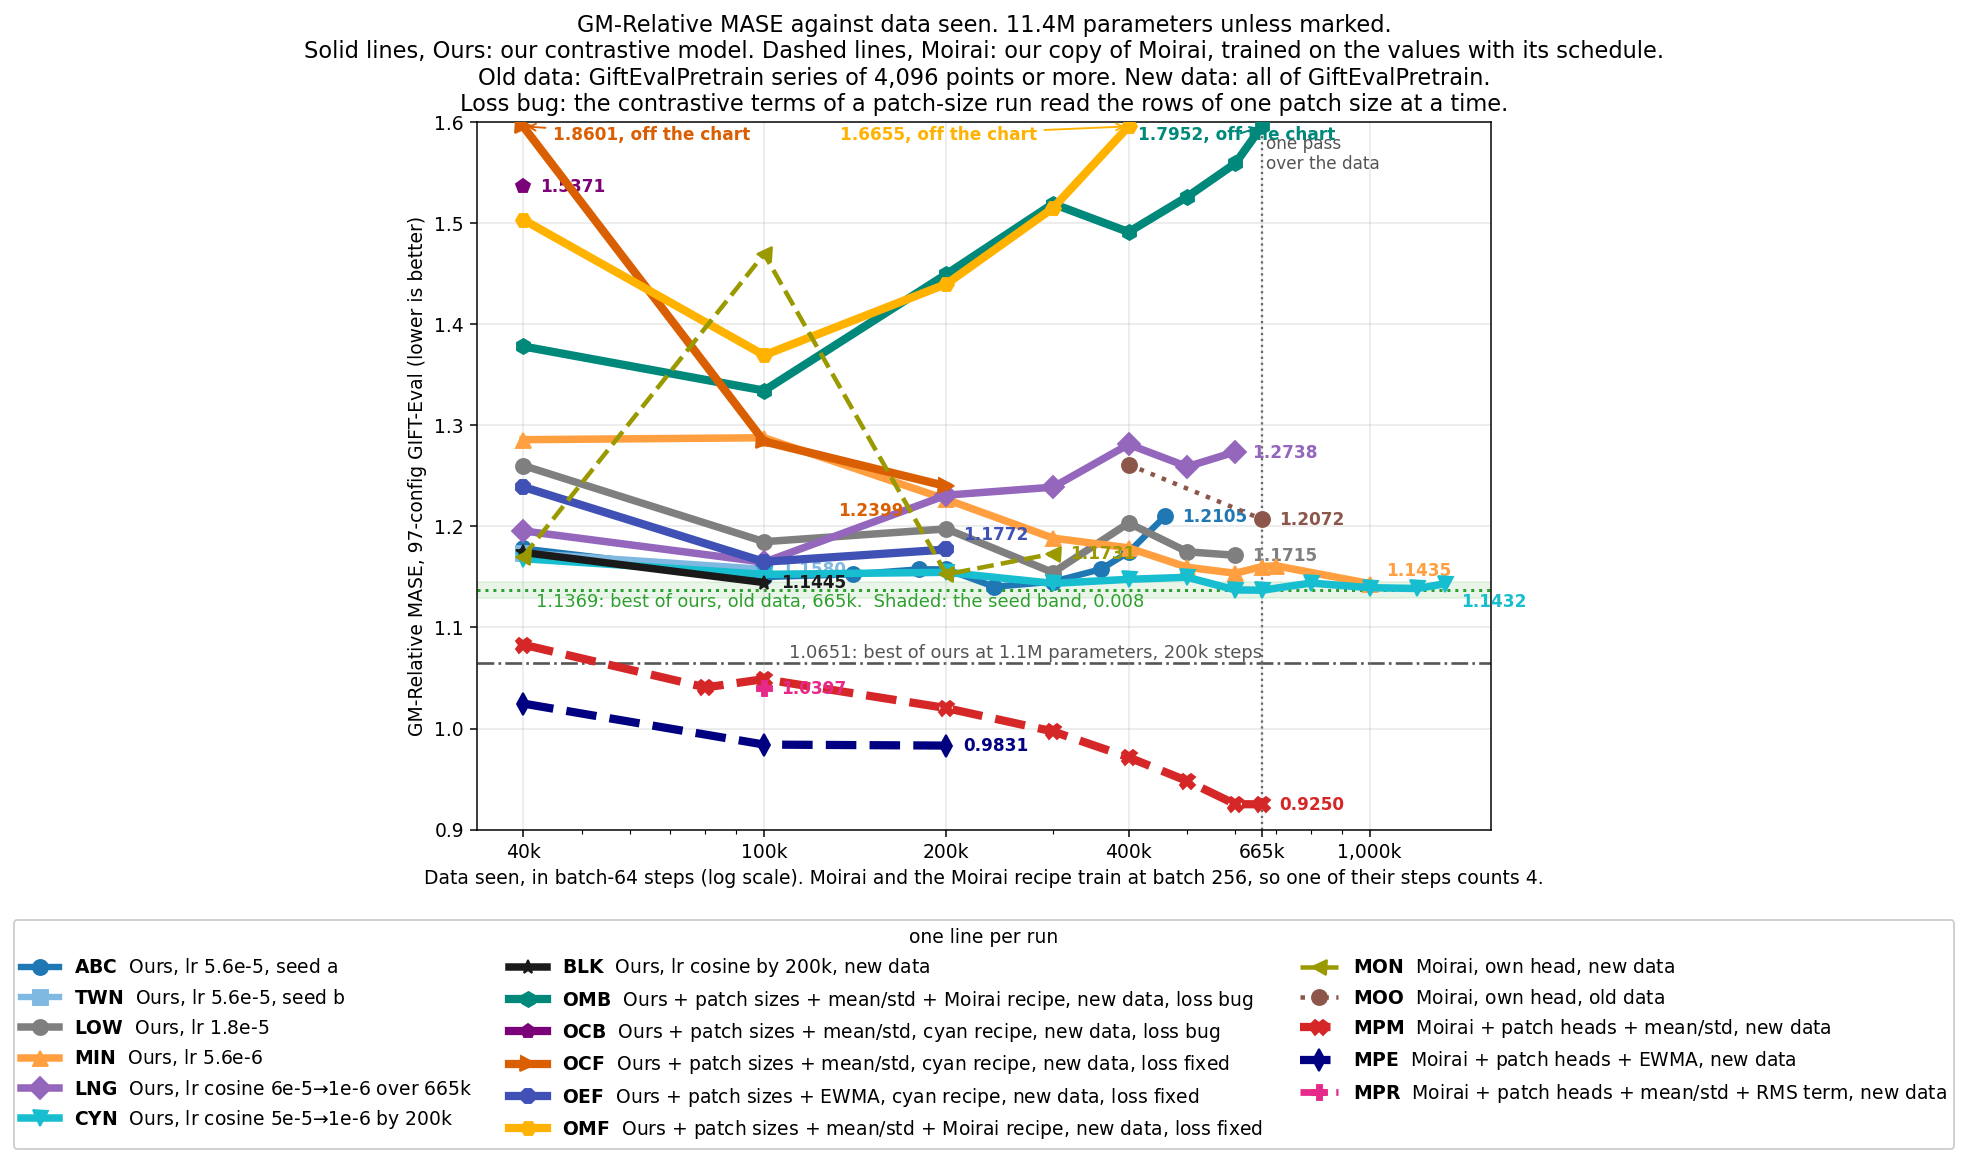
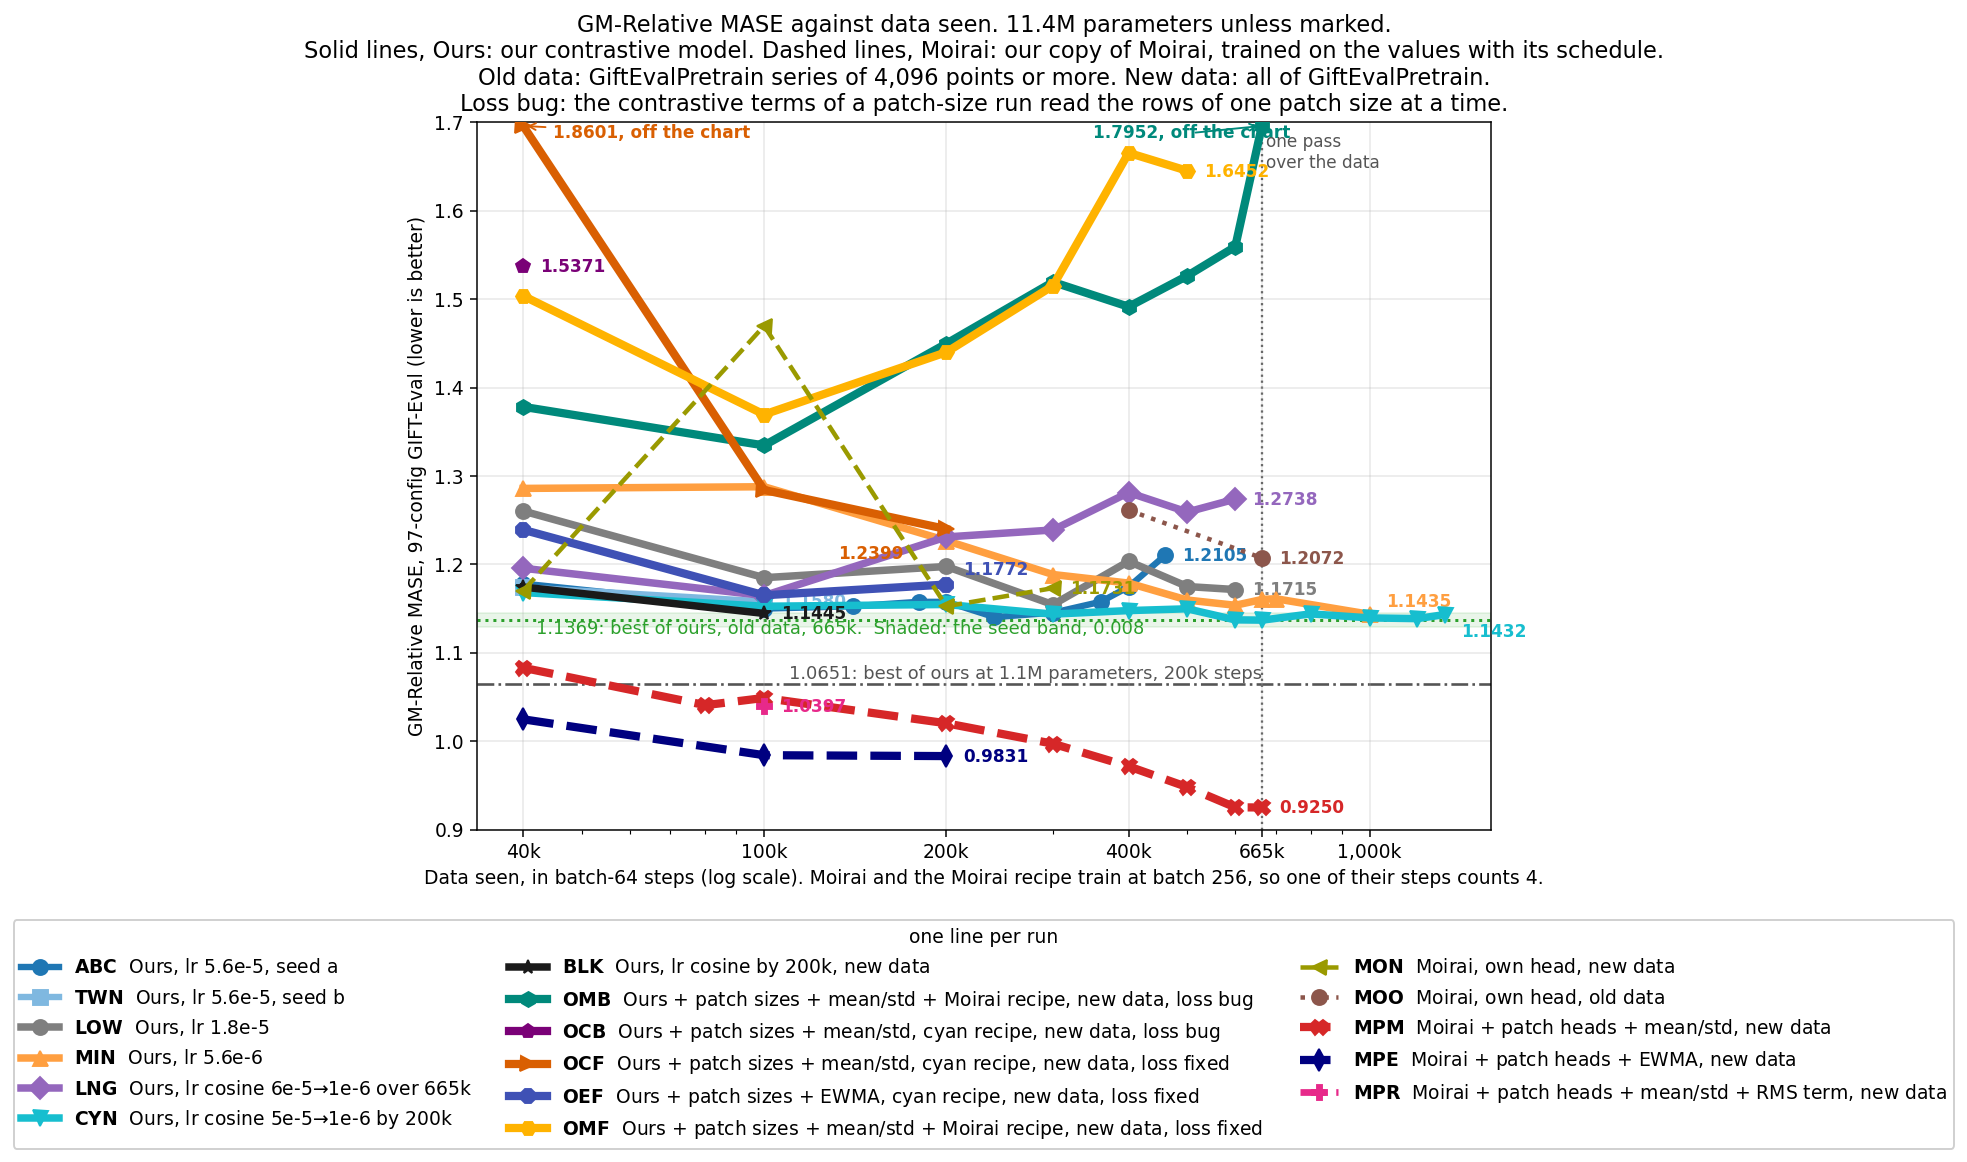
exp(#412): OMF (#412om2) scores 1.6452 at 125k
The GM figure goes up to 1.70, and a run's points off the chart share one
label.

diff --git a/reports/2026-09-06_moirai_small_size/scripts/plot_gm_rates.py b/reports/2026-09-06_moirai_small_size/scripts/plot_gm_rates.py
@@ -54,9 +54,9 @@ XSCALE = {"cf415_moirai": 4, "cf415_moirai_native": 4, "cf419_moirai_native": 4,
 END_LABEL_OFFSET = {P + "_lr100x": (9, 4), P + "_cos200k": (9, -12), "cf412om": (-62, 6),
                     "cf412oc2": (-58, -16), "cf412oe2": (9, 5)}
 # How far left of its point an off-the-chart label starts, so two such labels part.
-OFF_LABEL_DIV = {"cf412om2": 3.0, "cf412om": 1.6}
+OFF_LABEL_DIV = {"cf412om2": 3.0}
 BEST, BAND, PROJECT_BEST = 1.1369, 0.008, 1.0651
-YMIN, YMAX = 0.90, 1.60
+YMIN, YMAX = 0.90, 1.70
 
 
 def load_points():
@@ -73,15 +73,18 @@ def draw_series(ax, arm, label, colour, width, marker, style, points):
     shown = [min(v, YMAX - 0.004) for v in y]
     ax.plot(x, shown, style, color=colour, lw=width, marker=marker, ms=8,
             label=label, zorder=3)
-    for xi, yi in zip(x, y):
-        if yi > YMAX:
-            # The label sits beside the point, inside the axes, clear of the
-            # title: right of a point near the left edge, left of any other.
-            label_x = xi * 1.12 if xi < 100000 else xi / OFF_LABEL_DIV.get(arm, 1.9)
-            ax.annotate(f"{yi:.4f}, off the chart", (xi, YMAX - 0.004),
-                        xytext=(label_x, YMAX - 0.012), va="center",
-                        fontsize=9, color=colour, weight="bold",
-                        arrowprops=dict(arrowstyle="->", color=colour, lw=1))
+    above = [(xi, yi) for xi, yi in zip(x, y) if yi > YMAX]
+    if above:
+        # One label lists the points off the chart and points at the last of
+        # them. It sits inside the axes, clear of the title: right of a point
+        # near the left edge, left of any other.
+        xi = above[-1][0]
+        label_x = xi * 1.12 if xi < 100000 else xi / OFF_LABEL_DIV.get(arm, 1.9)
+        values = ", ".join(f"{yi:.4f}" for _, yi in above)
+        ax.annotate(f"{values}, off the chart", (xi, YMAX - 0.004),
+                    xytext=(label_x, YMAX - 0.012), va="center",
+                    fontsize=9, color=colour, weight="bold",
+                    arrowprops=dict(arrowstyle="->", color=colour, lw=1))
     if y[-1] <= YMAX:
         ax.annotate(f"{y[-1]:.4f}", (x[-1], shown[-1]), textcoords="offset points",
                     xytext=END_LABEL_OFFSET.get(arm, (9, -3)), fontsize=9,
